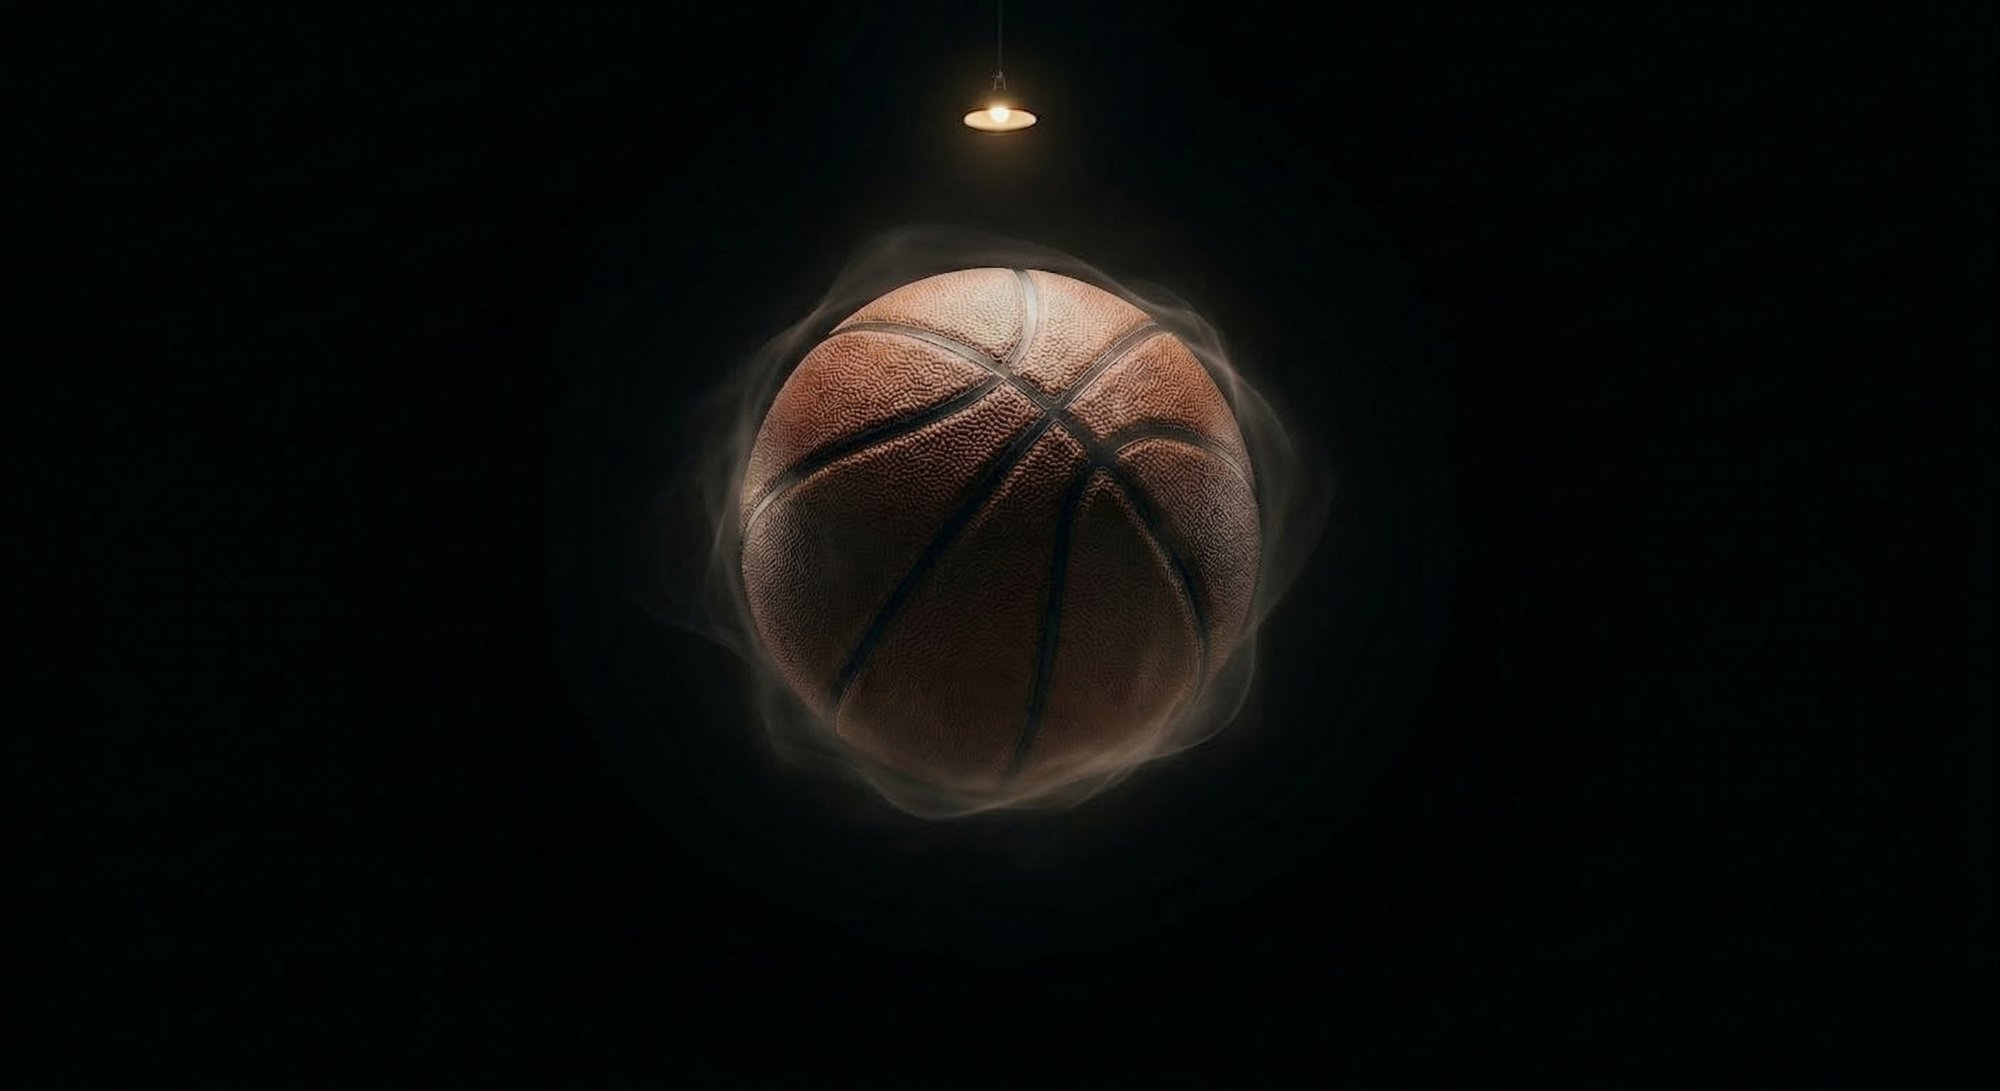
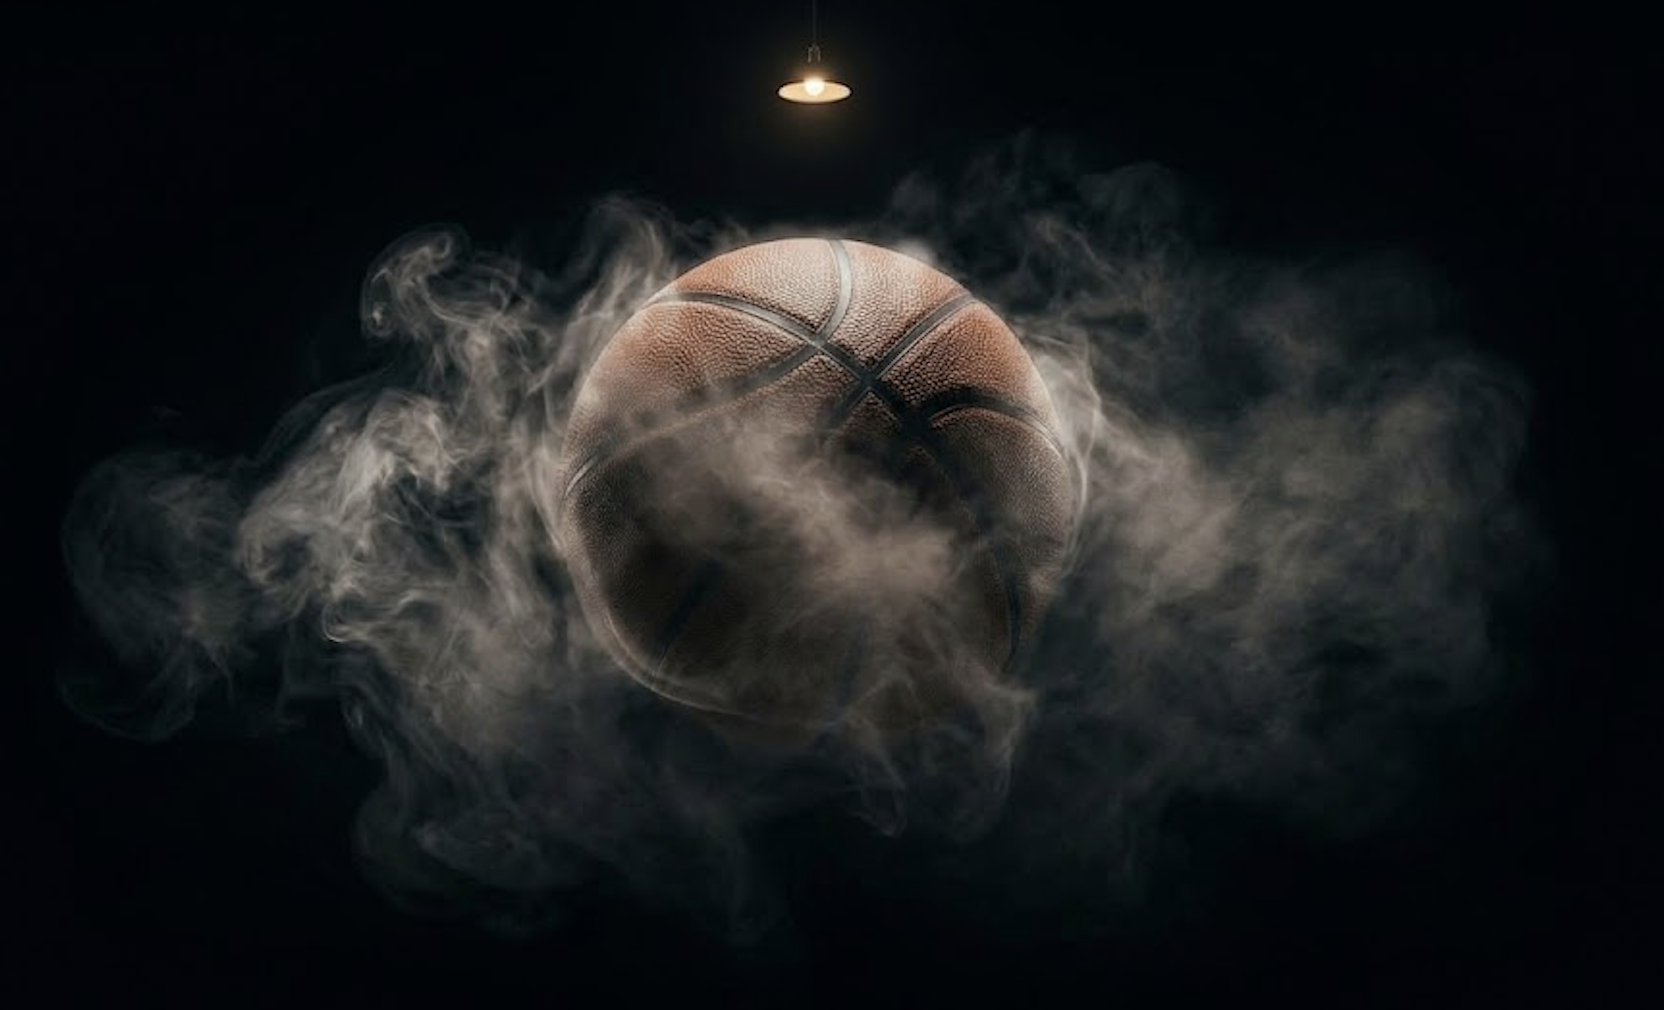
Add basketball image to bracket facing layout center
Large subtle basketball-in-smoke image positioned in the dead space
of the facing bracket center. Black background on the bracket area
ensures seamless blending with no visible edges.

diff --git a/client/src/components/leagues/BracketDisplay.jsx b/client/src/components/leagues/BracketDisplay.jsx
@@ -430,7 +430,7 @@ export default function BracketDisplay({ matchups, picks, rounds, regions, onMat
 
   // ── Facing bracket: render a center column matchup (FF or Championship) ──
 
-  function renderCenterMatchup(matchup, size, roundNum, { showBracketBall } = {}) {
+  function renderCenterMatchup(matchup, size, roundNum) {
     if (!matchup) return null
     return (
       <div className="flex flex-col items-center">
@@ -445,18 +445,7 @@ export default function BracketDisplay({ matchups, picks, rounds, regions, onMat
           style={{ gridTemplateRows: facingGridTemplate }}
         >
           <div style={{ gridRow: '1 / -1' }} className="flex items-center">
-            {showBracketBall ? (
-              <div className="flex flex-col items-center">
-                <img
-                  src="/ncaa-bracket-ball.png"
-                  alt=""
-                  className="w-40 h-auto opacity-60 pointer-events-none -mb-3"
-                />
-                {renderCard(matchup, size)}
-              </div>
-            ) : (
-              renderCard(matchup, size)
-            )}
+            {renderCard(matchup, size)}
           </div>
         </div>
       </div>
@@ -516,18 +505,25 @@ export default function BracketDisplay({ matchups, picks, rounds, regions, onMat
         </div>
       )}
 
-      <div className="overflow-x-auto">
+      <div className={`overflow-x-auto ${useFacing ? 'bg-black rounded-xl' : ''}`}>
         {useFacing ? (
           /* ── Facing bracket layout ── */
-          <div className="flex min-w-max py-2">
-            {renderBracketHalf(facingLayout.left, false, 'left')}
-            {renderCenterMatchup(centerMatchups.ffLeft, 'lg', centerMatchups.ffRound)}
-            {centerMatchups.championship && renderCenterLine()}
-            {centerMatchups.championship &&
-              renderCenterMatchup(centerMatchups.championship, 'xl', centerMatchups.champRound, { showBracketBall: true })}
-            {centerMatchups.championship && renderCenterLine()}
-            {renderCenterMatchup(centerMatchups.ffRight, 'lg', centerMatchups.ffRound)}
-            {renderBracketHalf(facingLayout.right, true, 'right')}
+          <div className="relative flex min-w-max py-2">
+            <img
+              src="/ncaa-bracket-ball.png"
+              alt=""
+              className="absolute left-1/2 top-1/2 -translate-x-1/2 -translate-y-[60%] w-[500px] h-auto opacity-50 pointer-events-none z-0"
+            />
+            <div className="relative z-10 flex min-w-max w-full">
+              {renderBracketHalf(facingLayout.left, false, 'left')}
+              {renderCenterMatchup(centerMatchups.ffLeft, 'lg', centerMatchups.ffRound)}
+              {centerMatchups.championship && renderCenterLine()}
+              {centerMatchups.championship &&
+                renderCenterMatchup(centerMatchups.championship, 'xl', centerMatchups.champRound)}
+              {centerMatchups.championship && renderCenterLine()}
+              {renderCenterMatchup(centerMatchups.ffRight, 'lg', centerMatchups.ffRound)}
+              {renderBracketHalf(facingLayout.right, true, 'right')}
+            </div>
           </div>
         ) : (
           /* ── Linear layout (single region or small bracket) ── */
